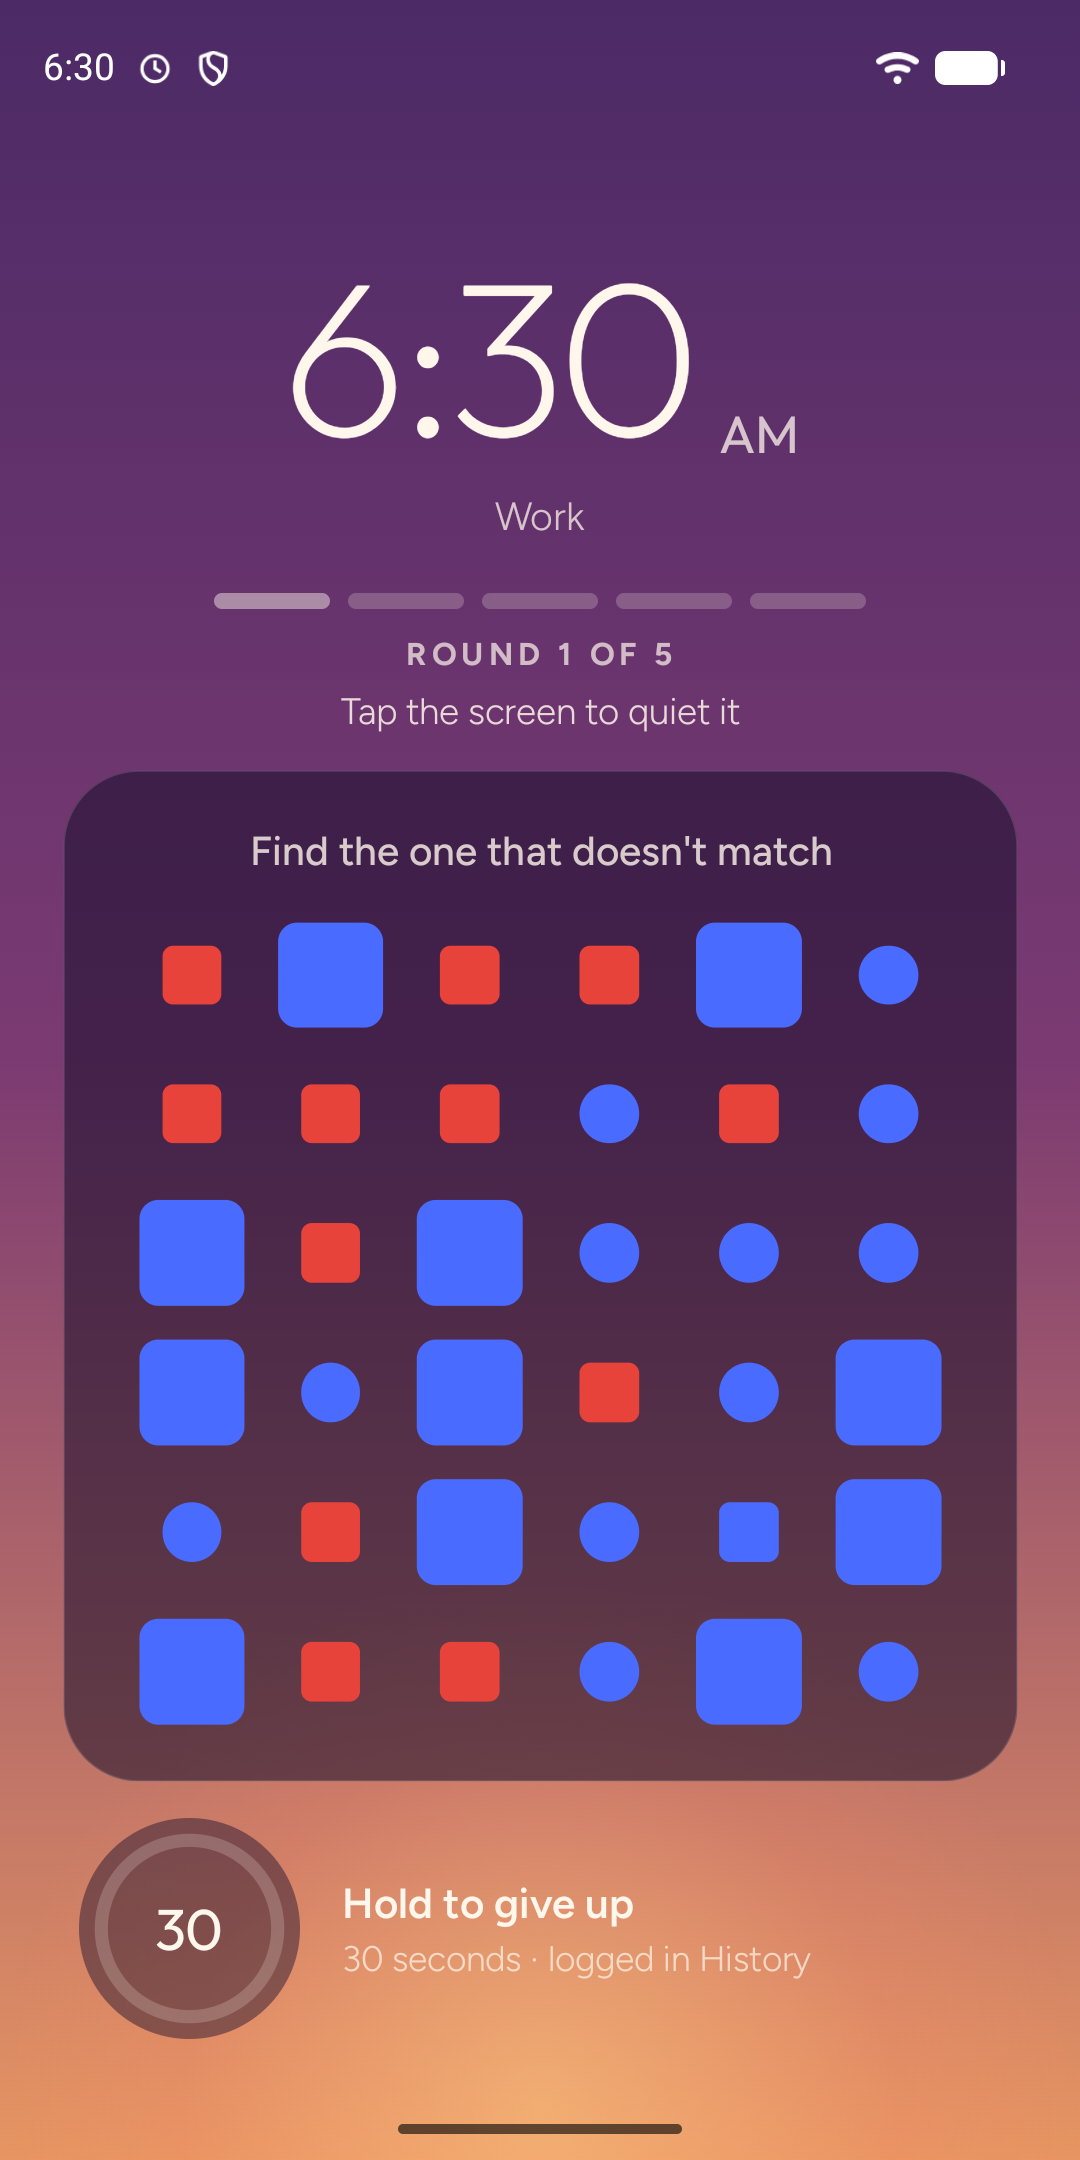
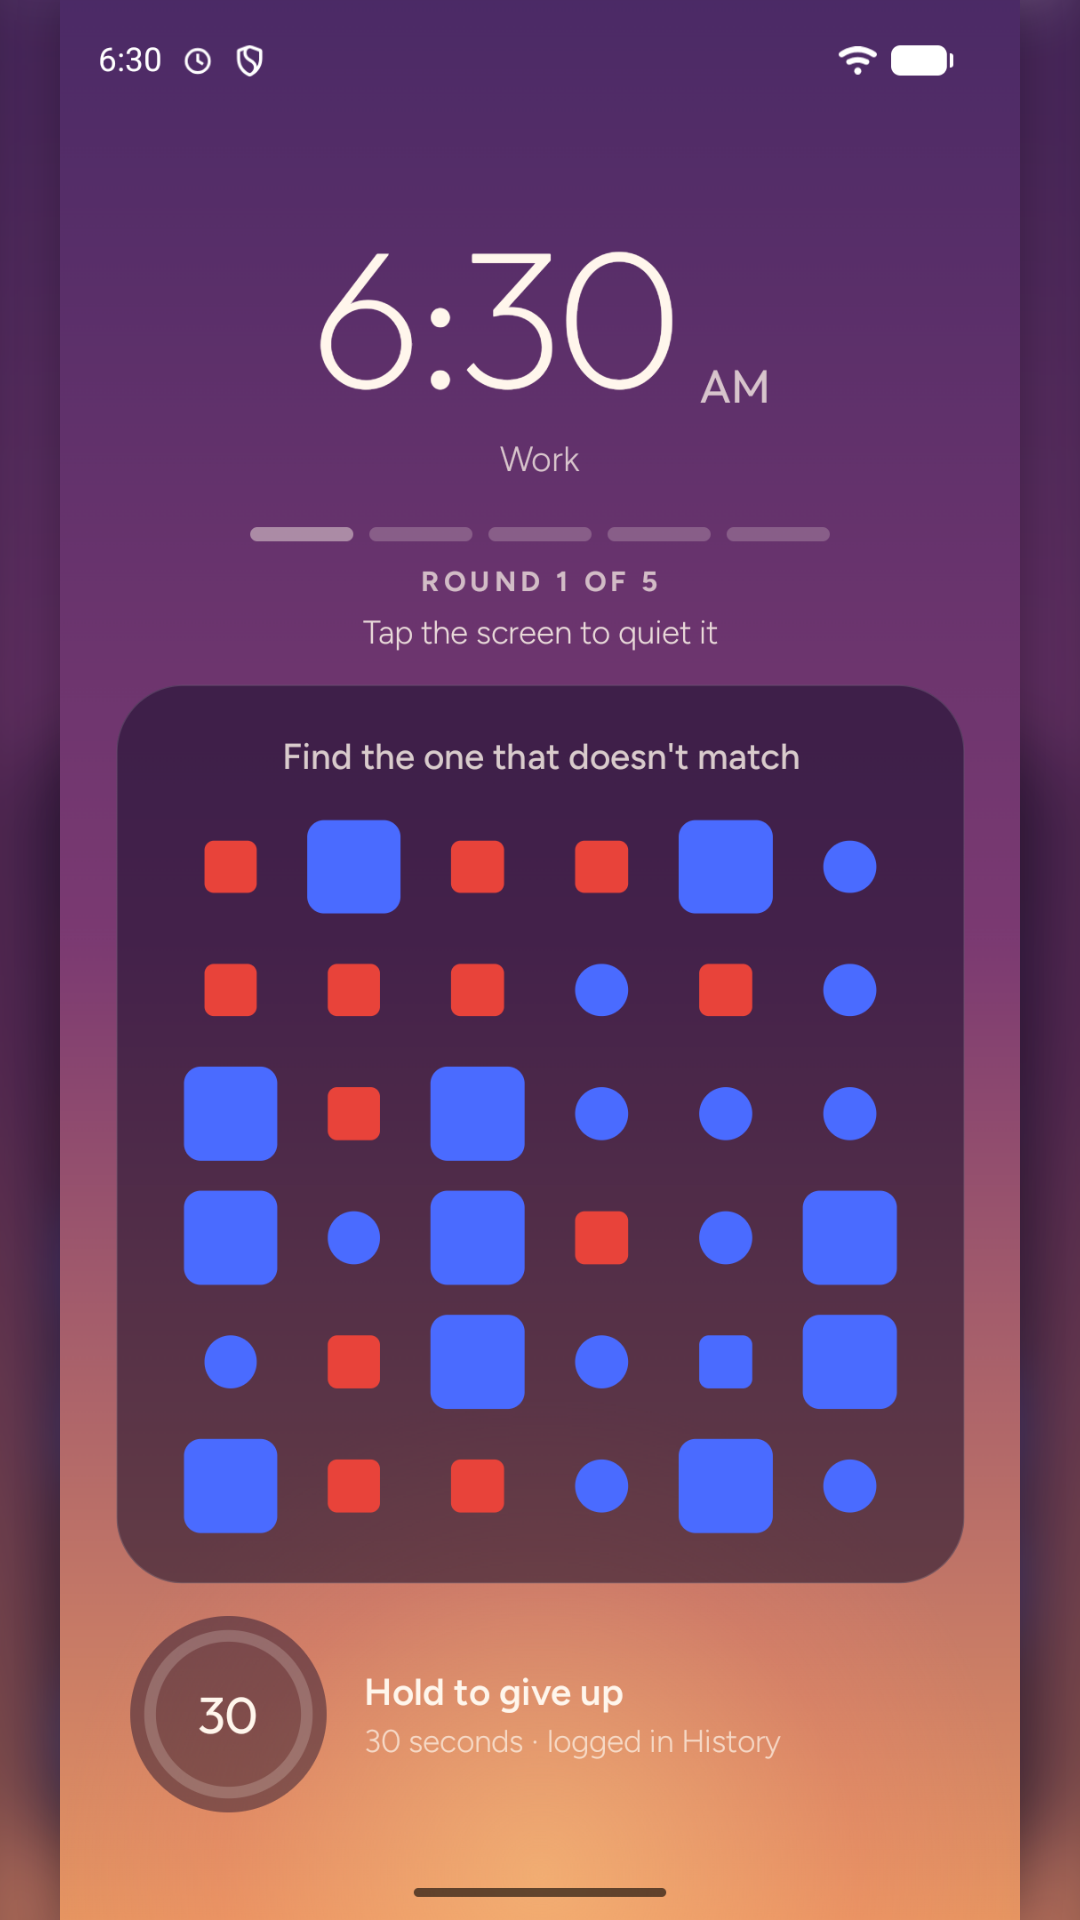
Store screenshots: 9:16 (1080x1920) as Play requires

diff --git a/store/src/fit/6-plus-puzzles.png.html b/store/src/fit/6-plus-puzzles.png.html
@@ -1,0 +1,4 @@
+<html><body style="margin:0;width:1080px;height:1920px;overflow:hidden;position:relative;background:#000">
+<img src="6-plus-puzzles.png" style="position:absolute;left:-60px;top:-120px;width:1200px;height:2400px;filter:blur(40px) brightness(.85)">
+<img src="6-plus-puzzles.png" style="position:absolute;left:60px;top:0;width:960px;height:1920px;box-shadow:0 0 40px rgba(0,0,0,.25)">
+</body></html>

diff --git a/store/src/fit/5-aurora-sky.png.html b/store/src/fit/5-aurora-sky.png.html
@@ -1,0 +1,4 @@
+<html><body style="margin:0;width:1080px;height:1920px;overflow:hidden;position:relative;background:#000">
+<img src="5-aurora-sky.png" style="position:absolute;left:-60px;top:-120px;width:1200px;height:2400px;filter:blur(40px) brightness(.85)">
+<img src="5-aurora-sky.png" style="position:absolute;left:60px;top:0;width:960px;height:1920px;box-shadow:0 0 40px rgba(0,0,0,.25)">
+</body></html>

diff --git a/store/src/fit/7-coast-sky.png.html b/store/src/fit/7-coast-sky.png.html
@@ -1,0 +1,4 @@
+<html><body style="margin:0;width:1080px;height:1920px;overflow:hidden;position:relative;background:#000">
+<img src="7-coast-sky.png" style="position:absolute;left:-60px;top:-120px;width:1200px;height:2400px;filter:blur(40px) brightness(.85)">
+<img src="7-coast-sky.png" style="position:absolute;left:60px;top:0;width:960px;height:1920px;box-shadow:0 0 40px rgba(0,0,0,.25)">
+</body></html>

diff --git a/store/src/fit/4-history.png.html b/store/src/fit/4-history.png.html
@@ -1,0 +1,4 @@
+<html><body style="margin:0;width:1080px;height:1920px;overflow:hidden;position:relative;background:#000">
+<img src="4-history.png" style="position:absolute;left:-60px;top:-120px;width:1200px;height:2400px;filter:blur(40px) brightness(.85)">
+<img src="4-history.png" style="position:absolute;left:60px;top:0;width:960px;height:1920px;box-shadow:0 0 40px rgba(0,0,0,.25)">
+</body></html>

diff --git a/store/src/fit/3-alarms.png.html b/store/src/fit/3-alarms.png.html
@@ -1,0 +1,4 @@
+<html><body style="margin:0;width:1080px;height:1920px;overflow:hidden;position:relative;background:#000">
+<img src="3-alarms.png" style="position:absolute;left:-60px;top:-120px;width:1200px;height:2400px;filter:blur(40px) brightness(.85)">
+<img src="3-alarms.png" style="position:absolute;left:60px;top:0;width:960px;height:1920px;box-shadow:0 0 40px rgba(0,0,0,.25)">
+</body></html>

diff --git a/store/src/fit/1-ring.png.html b/store/src/fit/1-ring.png.html
@@ -1,0 +1,4 @@
+<html><body style="margin:0;width:1080px;height:1920px;overflow:hidden;position:relative;background:#000">
+<img src="1-ring.png" style="position:absolute;left:-60px;top:-120px;width:1200px;height:2400px;filter:blur(40px) brightness(.85)">
+<img src="1-ring.png" style="position:absolute;left:60px;top:0;width:960px;height:1920px;box-shadow:0 0 40px rgba(0,0,0,.25)">
+</body></html>

diff --git a/store/src/fit/2-scan.png.html b/store/src/fit/2-scan.png.html
@@ -1,0 +1,4 @@
+<html><body style="margin:0;width:1080px;height:1920px;overflow:hidden;position:relative;background:#000">
+<img src="2-scan.png" style="position:absolute;left:-60px;top:-120px;width:1200px;height:2400px;filter:blur(40px) brightness(.85)">
+<img src="2-scan.png" style="position:absolute;left:60px;top:0;width:960px;height:1920px;box-shadow:0 0 40px rgba(0,0,0,.25)">
+</body></html>

diff --git a/store/src/fit/8-edit.png.html b/store/src/fit/8-edit.png.html
@@ -1,0 +1,4 @@
+<html><body style="margin:0;width:1080px;height:1920px;overflow:hidden;position:relative;background:#000">
+<img src="8-edit.png" style="position:absolute;left:-60px;top:-120px;width:1200px;height:2400px;filter:blur(40px) brightness(.85)">
+<img src="8-edit.png" style="position:absolute;left:60px;top:0;width:960px;height:1920px;box-shadow:0 0 40px rgba(0,0,0,.25)">
+</body></html>
